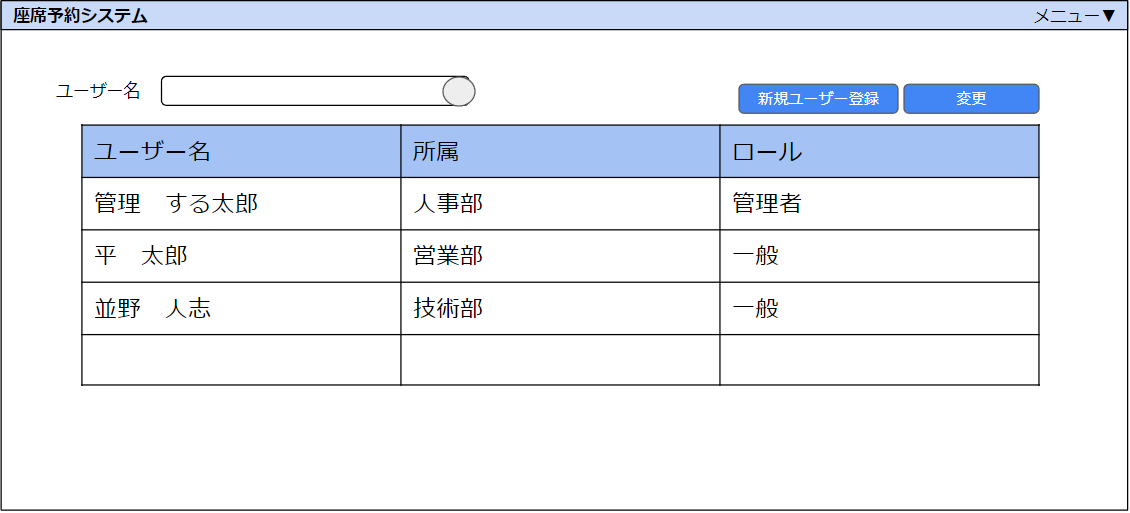
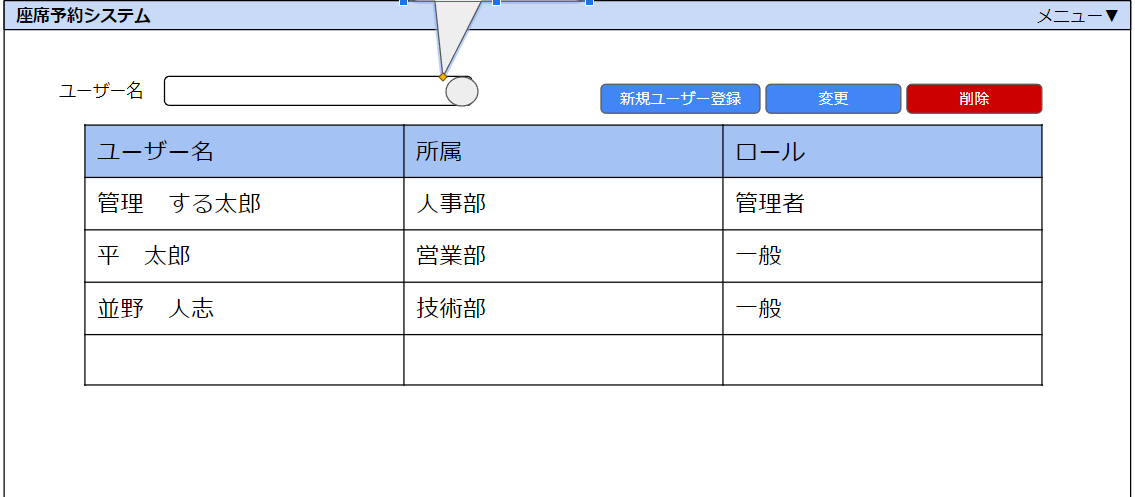
ユーザー一覧　削除ボタン追加

Changed region(s): [[0.0619, 0.1509, 0.9292, 0.7847], [0.0, 0.0, 1.0, 1.0]]

diff --git a/design/002_ユーザー一覧/基本設計書_ユーザー一覧.md b/design/002_ユーザー一覧/基本設計書_ユーザー一覧.md
@@ -13,10 +13,14 @@
 ユーザー登録画面に遷移する。
 * 変更 - ボタン  
 選択したユーザーの設定変更画面に遷移する。  
-選択されているときだけ活性
+ユーザーが1人選択されているときだけ活性  
+* 削除 - ボタン  
+選択したユーザーを削除する。  
+ユーザーが１人以上選択されているときだけ活性
 * 表  
 ユーザーの情報が表示される。  
 ユーザー名、ユーザー表示名、所属、ロールが表示される。
 # 機能要件
 * 検索は、ユーザー名orユーザー表示名の部分一致。
-* 変更ボタンは、ユーザーを選択している時だけ押下可能。
+* 変更と削除ボタンは、ユーザーを選択している時だけ押下可能。
+* 削除は複数選択可能。
